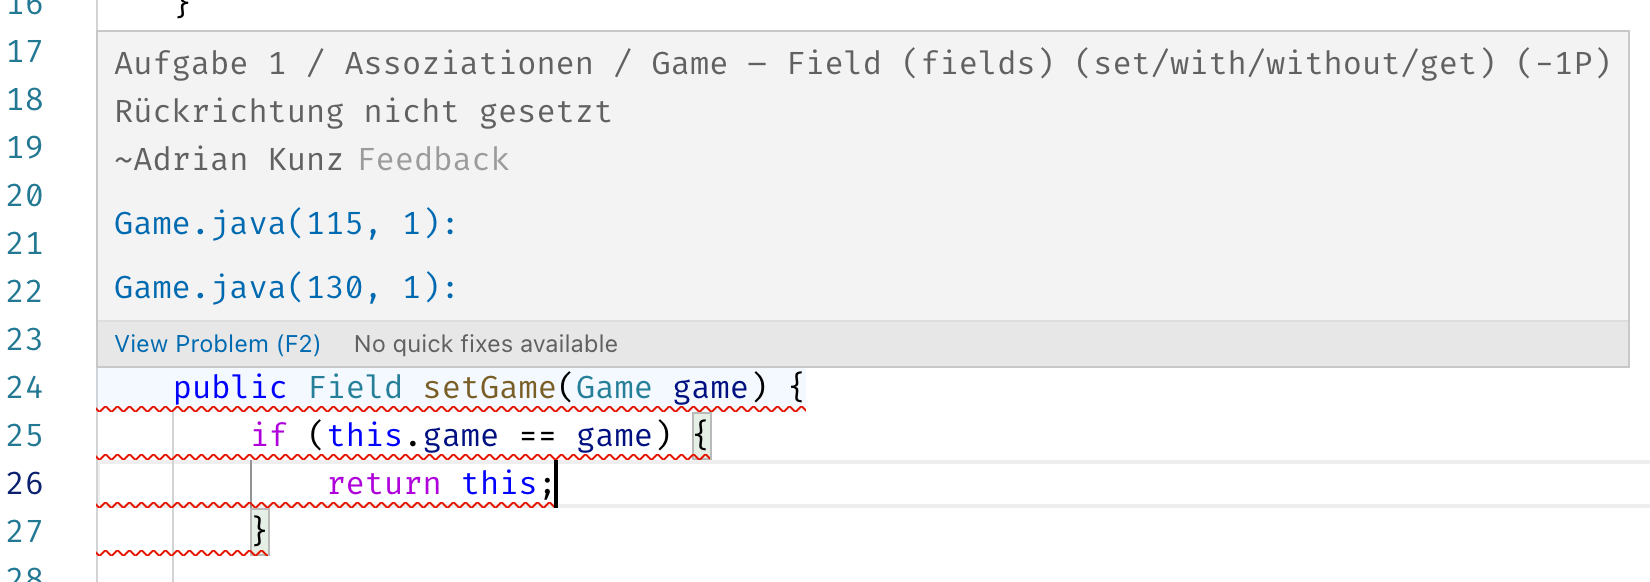
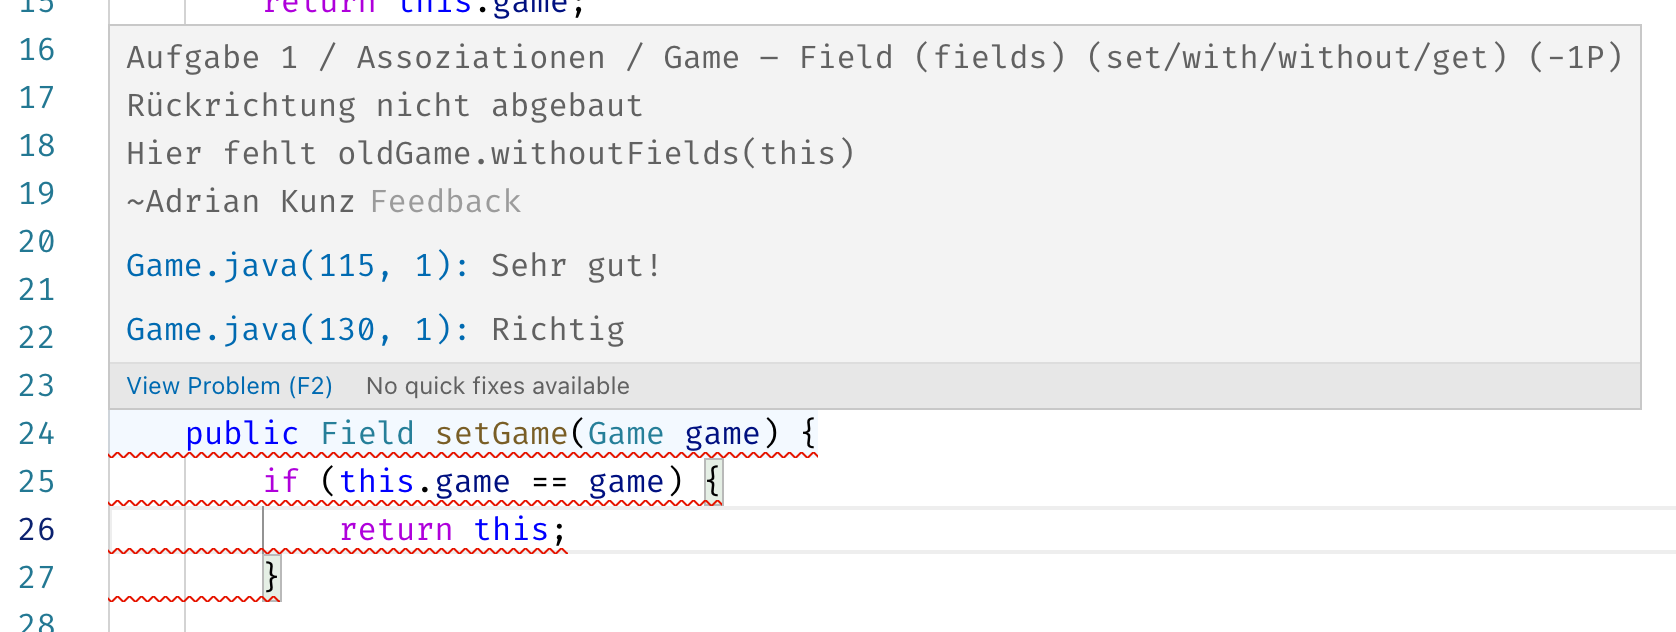
feat: Diagnostics in code

diff --git a/src/chapter/3-implementation.tex b/src/chapter/3-implementation.tex
@@ -641,6 +641,26 @@ In diesem Beispiel wurde ein Getter ausgewählt, der neben \code{Field} auch in 
 Hier ist es nicht möglich, mehr Kontext bereitzustellen, da bereits eine ganze Methode ausgewählt wurde.
 Stattdessen ist aufgabenspezifisch die Auswahl des Setters sinnvoller, da in diesem Beispiel die korrekte Implementierung von referentieller Integrität gefragt war.
 
+\subsection{Darstellung von Bewertungen}
+
+Bewertungen, bei denen Codeabschnitte hinterlegt wurden, können von fulibFeedback im Editor angezeigt werden.
+Dies ist besonders für Studierende nützlich, die nach der Einrichtung der Erweiterungseinstellungen betrachten können, an welchen Stellen im Code zu Punktabzügen geführt haben und welche Teilaufgaben betroffen sind.
+Abbildung~\ref{fig:fulibFeedback-negative} zeigen die Markierung im Code sowie den Hilfetext, der beim Hovern über die betroffene Stelle dargestellt wird.
+
+\begin{figure}
+    \centering
+    \includegraphics[width=0.83\textwidth]{images/fulibFeedback-positive}
+    \caption{Negative Bewertung als Markierung im Code}
+    \label{fig:fulibFeedback-negative}
+\end{figure}
+
+Abhängig von der vergebenen Punktzahl ändert sich die Farbe der gewellten Linie, welche die Markierung ausmacht.
+Wurde die maximale Punktzahl für die Teilaufgabe erreicht ist die Linie blau.
+Abzüge oder positive Teilaufgaben mit null Punkten färben die Linie rot wie in Abbildung~\ref{fig:fulibFeedback-negative}.
+Teilpunkte werden mit gelber Farbe signalisiert.
+Der Hilfetext enthält die Beschreibung der Teilaufgabe (\texttt{Aufgabe 1 / Assoziationen / Game -- Field (fields) \dots}), die vergebene Punktzahl (\texttt{(-1P)}), Remark (\texttt{Rückrichtung nicht gesetzt}) und Kommentar (\texttt{Hier fehlt oldGame.withoutFields(this)}) und den Autor der Bewertung (\texttt{Adrian Kunz}).
+Wurden mehrere Codeabschnitte hinterlegt, werden Links angezeigt, die auf andere betroffene Dateien und Zeilen verweisen und den zugehörigen Kommentar angeben (\texttt{Game.java(115, 1): Sehr gut!} und \texttt{Game.java(130, 1): Richtig}).
+
 \subsection{VSCode Extension}\label{subsec:vscode-extension}
 
 \todo{
